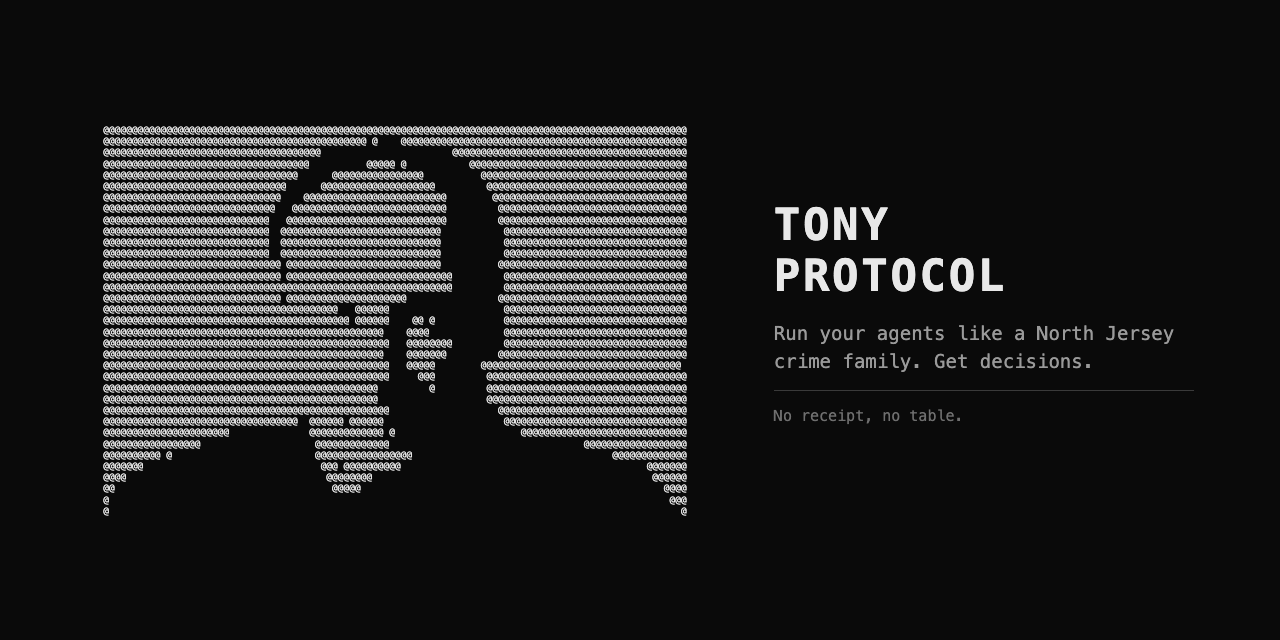
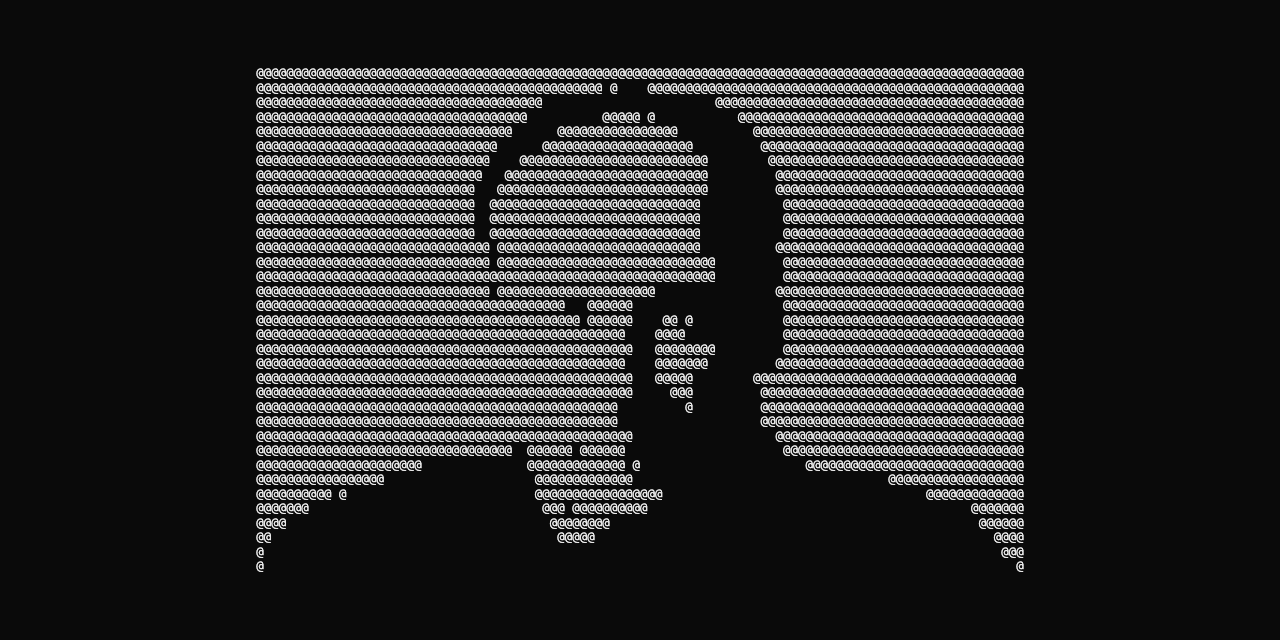
Face-only social card; tagline: run your sub-agents

Changed region(s): [[0.0625, 0.0938, 0.9062, 0.875]]

diff --git a/assets/social-preview.html b/assets/social-preview.html
@@ -1,11 +1,7 @@
 <!doctype html><html><head><meta charset="utf-8"><style>
   html,body{margin:0;padding:0;background:#0a0a0a;width:1280px;height:640px;overflow:hidden}
-  .card{display:flex;align-items:center;justify-content:center;gap:70px;width:1280px;height:640px}
-  pre{font-family:Menlo,monospace;font-size:9.5px;line-height:1.18;color:#e8e8e8;margin:0}
-  .txt{font-family:Menlo,monospace;color:#e8e8e8;max-width:420px}
-  .txt h1{font-size:44px;letter-spacing:.06em;margin:0 0 18px;font-weight:700}
-  .txt p{font-size:19px;line-height:1.5;color:#9a9a9a;margin:0 0 14px}
-  .txt .rule{border-top:1px solid #3a3a3a;padding-top:14px;font-size:15px;color:#6f6f6f}
+  .card{display:flex;align-items:center;justify-content:center;width:1280px;height:640px}
+  pre{font-family:Menlo,monospace;font-size:12.5px;line-height:1.16;color:#e8e8e8;margin:0}
 </style></head><body><div class="card"><pre>   @@@@@@@@@@@@@@@@@@@@@@@@@@@@@@@@@@@@@@@@@@@@@@@@@@@@@@@@@@@@@@@@@@@@@@@@@@@@@@@@@@@@@@@@@@@@@@@@@@@@@@   
    @@@@@@@@@@@@@@@@@@@@@@@@@@@@@@@@@@@@@@@@@@@@@@ @    @@@@@@@@@@@@@@@@@@@@@@@@@@@@@@@@@@@@@@@@@@@@@@@@@@   
    @@@@@@@@@@@@@@@@@@@@@@@@@@@@@@@@@@@@@@                       @@@@@@@@@@@@@@@@@@@@@@@@@@@@@@@@@@@@@@@@@   
@@ -40,7 +36,4 @@
    @@@@                                   @@@@@@@@                                                 @@@@@@   
    @@                                      @@@@@                                                     @@@@   
    @                                                                                                  @@@   
-   @                                                                                                    @   </pre>
-<div class="txt"><h1>TONY<br>PROTOCOL</h1>
-<p>Run your agents like a North Jersey crime family. Get decisions.</p>
-<p class="rule">No receipt, no table.</p></div></div></body></html>
+   @                                                                                                    @   </pre></div></body></html>

diff --git a/README.md b/README.md
@@ -1,6 +1,6 @@
 # Tony Protocol
 
-### Run your agents like a North Jersey crime family. Get decisions.
+### Run your sub-agents like a North Jersey crime family. Get decisions.
 
 Give an AI a big job and it usually hires too many sub-agents, lets all of them finish, then blends their answers into a bowl of minestrone.
 
